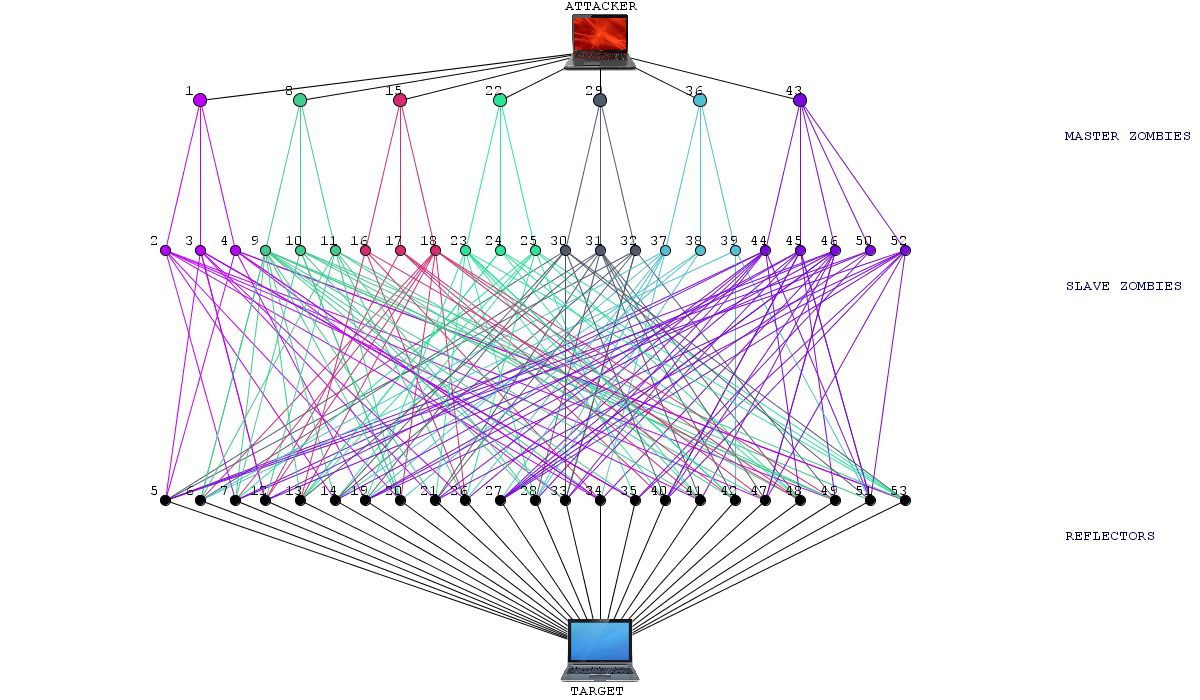
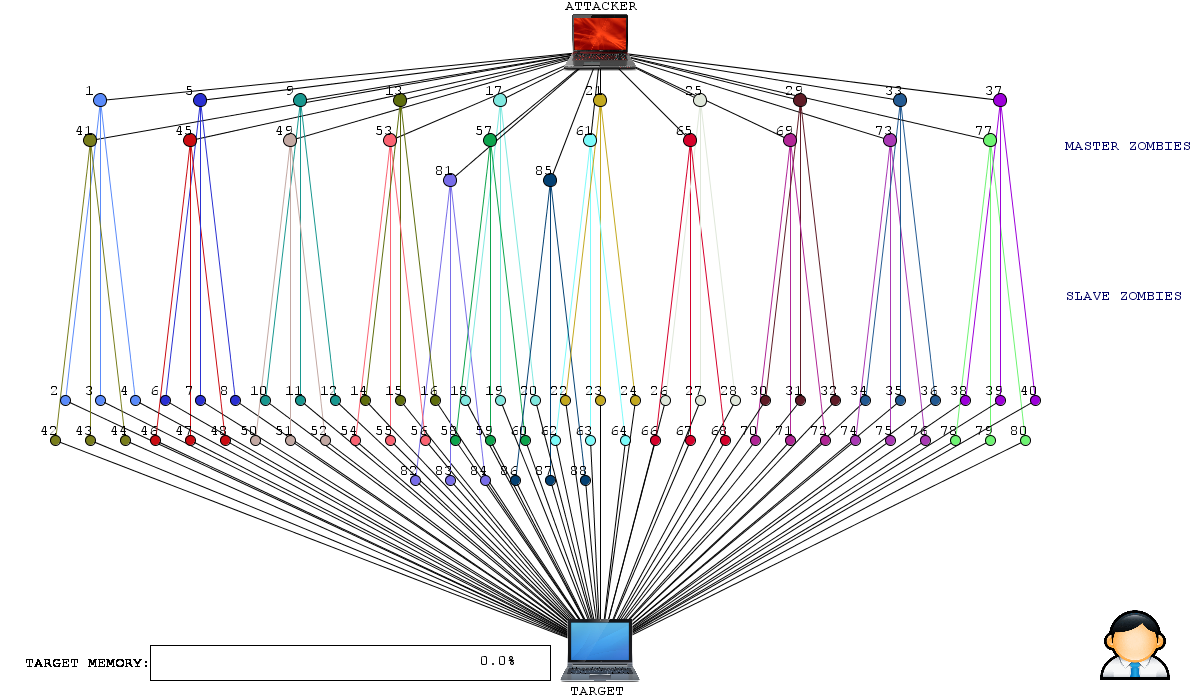
kraj za veceras

diff --git a/src/graphic/DDoSSimulation.java b/src/graphic/DDoSSimulation.java
@@ -23,8 +23,8 @@ public class DDoSSimulation {
 	
 	public static final int CYN_FLOOD = 1, ICMP_FLOOD = 2;
 	
-	public static boolean globalResourceTypeInternal = true, globalDDOSTypeDirect = true, globalPackageTypeCYN = true, globalGraphTypeU45 = false;
-	public static int globalNumSlaves = 100, globalNumMasterSlaves = 10;
+	public static boolean globalResourceTypeInternal = true, globalDDOSTypeDirect = true, globalPackageTypeCYN = true, globalGraphTypeU45 = true;
+	public static int globalNumSlaves = 35, globalNumMasterSlaves = 10;
 	public static int ttlConf = 4, memoryConf = 0, packageConf = 32;
 	
 	private JFrame window, popUpStart, ipAddressConfig;
@@ -45,11 +45,11 @@ public class DDoSSimulation {
 	
 	
 	public DDoSSimulation() {
-		//makePopUpStart();
-		makeWindow();
+		makePopUpStart();
+		//makeWindow();
 		procGraphic = new ProcessingSimulation(this);
-		procGraphic.makeNetworkDefault();
-		runSimulation();
+		//procGraphic.makeNetworkDefault();
+		//runSimulation();
 	}
 	
 	private void makePopUpStart() {
@@ -95,7 +95,7 @@ public class DDoSSimulation {
 		packageType.add(other);			// --> UPDATE
 		startingPanel.add(packageType, BorderLayout.SOUTH);
 		
-		JPanel numberSlaves = new JPanel();
+	/*	JPanel numberSlaves = new JPanel();
 		numberSlaves.setBorder(BorderFactory.createTitledBorder("Number of slaves"));
 		ButtonGroup slavesG = new ButtonGroup();
 		JRadioButton under45 = new JRadioButton("REAL SIM- under 60");
@@ -105,7 +105,7 @@ public class DDoSSimulation {
 		slavesG.add(above45);			
 		numberSlaves.add(under45);				
 		numberSlaves.add(above45);			
-		startingPanel.add(numberSlaves);
+		startingPanel.add(numberSlaves); */
 		
 		JButton confirm = new JButton("START");
 		buttonPanel.add(confirm);
@@ -121,7 +121,7 @@ public class DDoSSimulation {
 				globalResourceTypeInternal = internalResources.isSelected();
 				globalDDOSTypeDirect = direct.isSelected();
 				globalPackageTypeCYN = cyn.isSelected();
-				globalGraphTypeU45 = under45.isSelected();
+				//globalGraphTypeU45 = under45.isSelected();
 				
 				makeWindow();
 			}
@@ -129,7 +129,7 @@ public class DDoSSimulation {
 	}
 	
 	private void makeWindow() {
-		//popUpStart.setVisible(false);
+		popUpStart.setVisible(false);
 		
 		window = new JFrame("DDoS simulation");
 		window.setSize(WINDOW_WIDTH, WINDOW_HEIGHT); 
@@ -158,13 +158,12 @@ public class DDoSSimulation {
 		ttlTF = new JTextField(15);				JTextField dummy8 = new JTextField(10);		dummy8.setVisible(false);
 		memoryTF = new JTextField(15);			JTextField dummy9 = new JTextField(10);		dummy9.setVisible(false);
 		packagesizeTF = new JTextField(15);		JTextField dummy10 = new JTextField(10);	dummy10.setVisible(false);
-		numMastersTF = new JTextField(15);		JTextField dummy11 = new JTextField(10);	dummy11.setVisible(false);
+												JTextField dummy11 = new JTextField(10);	dummy11.setVisible(false);
 												JTextField dummy12 = new JTextField(10);	dummy12.setVisible(false);
 		
-		cSlavesConfig.add(new JLabel("Number of masters:"));	cSlavesConfig.add(numMastersTF); 	cSlavesConfig.add(dummy12);										
 		cSlavesConfig.add(new JLabel("Number of slaves:"));		cSlavesConfig.add(numSlavesTF); 	cSlavesConfig.add(dummy7);
 		cSlavesConfig.add(new JLabel("Memory size:"));			cSlavesConfig.add(memoryTF); 		cSlavesConfig.add(dummy8);
-		cSlavesConfig.add(new JLabel("Memory in time:"));		cSlavesConfig.add(ttlTF); 			cSlavesConfig.add(dummy9);
+		cSlavesConfig.add(new JLabel("Time in memory:"));		cSlavesConfig.add(ttlTF); 			cSlavesConfig.add(dummy9);
 		cSlavesConfig.add(new JLabel("Package size: "));		cSlavesConfig.add(packagesizeTF); 	cSlavesConfig.add(dummy10);
 																									
 		JButton submitConfiguration = new JButton("Configure");					
@@ -318,17 +317,18 @@ public class DDoSSimulation {
 							//-> 1. default way | 2. from document	| 3. typing
 		submitConfiguration.addActionListener(new ActionListener() {
 			public void actionPerformed(ActionEvent e) {
-				globalNumMasterSlaves = Integer.parseInt(numMastersTF.getText());
+				
 				globalNumSlaves = Integer.parseInt(numSlavesTF.getText());
 				ttlConf = Integer.parseInt(ttlTF.getText());
 				memoryConf = Integer.parseInt(memoryTF.getText());
 				packageConf = Integer.parseInt(packagesizeTF.getText());
 				
-				numMastersTF.setEditable(false);
 				numSlavesTF.setEditable(false);
 				ttlTF.setEditable(false);
 				memoryTF.setEditable(false);
 				packagesizeTF.setEditable(false);
+				
+				globalGraphTypeU45 = globalDDOSTypeDirect? (globalNumSlaves <= 45 ? true : false ) : (globalNumSlaves <= 35 ? true : false);
 				
 				submitConfiguration.setEnabled(false);
 				makeIPAddressConfigWindow();

diff --git a/src/graphic/ProcessingSimulation.java b/src/graphic/ProcessingSimulation.java
@@ -381,8 +381,8 @@ public class ProcessingSimulation extends PApplet{
 			PImage img;
 			if (pack.getType() == Package.EMAIL_VIRUS)  
 				img = loadImage("email2.png");
-			else if (pack.getType() == Package.CYN_PACKAGE)
-				img = loadImage("spoofedPackage.png");
+			else if (pack.getType() == Package.CYN_PACKAGE && pack.getEdge().getNodeTo().getComputer().getType() == Computer.TARGET)
+				img = loadImage("toTarget.png");
 			else 
 				img = loadImage("spoofedPackage.png");
 			
@@ -691,7 +691,7 @@ public class ProcessingSimulation extends PApplet{
 	}
 
 	public void makeInternalReflectedUnder30() {
-		int masters = DDoSSimulation.globalNumMasterSlaves = DDoSSimulation.globalNumSlaves/3;
+		int masters = DDoSSimulation.globalNumMasterSlaves = DDoSSimulation.globalNumSlaves/7;
 		int toFill = masters % MAX_MASTERS_U30;
 		int linePixel = masters / MAX_MASTERS_U30 * Y_STEP_U30;
 		
@@ -713,8 +713,8 @@ public class ProcessingSimulation extends PApplet{
 			makeReflectorAndAddToNetwork(leftStart, X, Y, 350);
 			makeReflectorAndAddToNetwork(leftStart, X+70, Y, 350);
 			
-			if (i==(masters-1) && (DDoSSimulation.globalNumSlaves%3 > 0)) {
-				for (int j=0; j<DDoSSimulation.globalNumSlaves%3; j++) {
+			if (i==(masters-1) && (DDoSSimulation.globalNumSlaves%7 > 0)) {
+				for (int j=0; j<DDoSSimulation.globalNumSlaves%7; j++) {
 					if (j%2 == 0) makeSlaveAndAddToNetwork(nodeMasterSlave, leftStart, X+70+100*((j+2)/2), Y, 100);
 					else makeReflectorAndAddToNetwork(leftStart, X+70+100*((j+2)/2), Y, 350);
 				}
@@ -726,13 +726,9 @@ public class ProcessingSimulation extends PApplet{
 		Vector<Node> slaves = network.getSlaveNodes();
 		
 		for(Node reflector: reflectors) {
-			for(int i =0; i<7; i++) {
-				
-				Random rand = new Random();
-				int slaveIndex = rand.nextInt(slaves.size());
-				Node nodeSlave = slaves.get(slaveIndex);
-				makeNeighbours(nodeSlave, reflector);
-				nodeSlave.addSlave(reflector); //not sure if this should stay
+			for(Node slave: slaves) {
+				makeNeighbours(slave, reflector);
+				slave.addSlave(reflector); //not sure if this should stay
 			}
 			makeNeighbours(reflector, network.getTargetNode());
 		}
